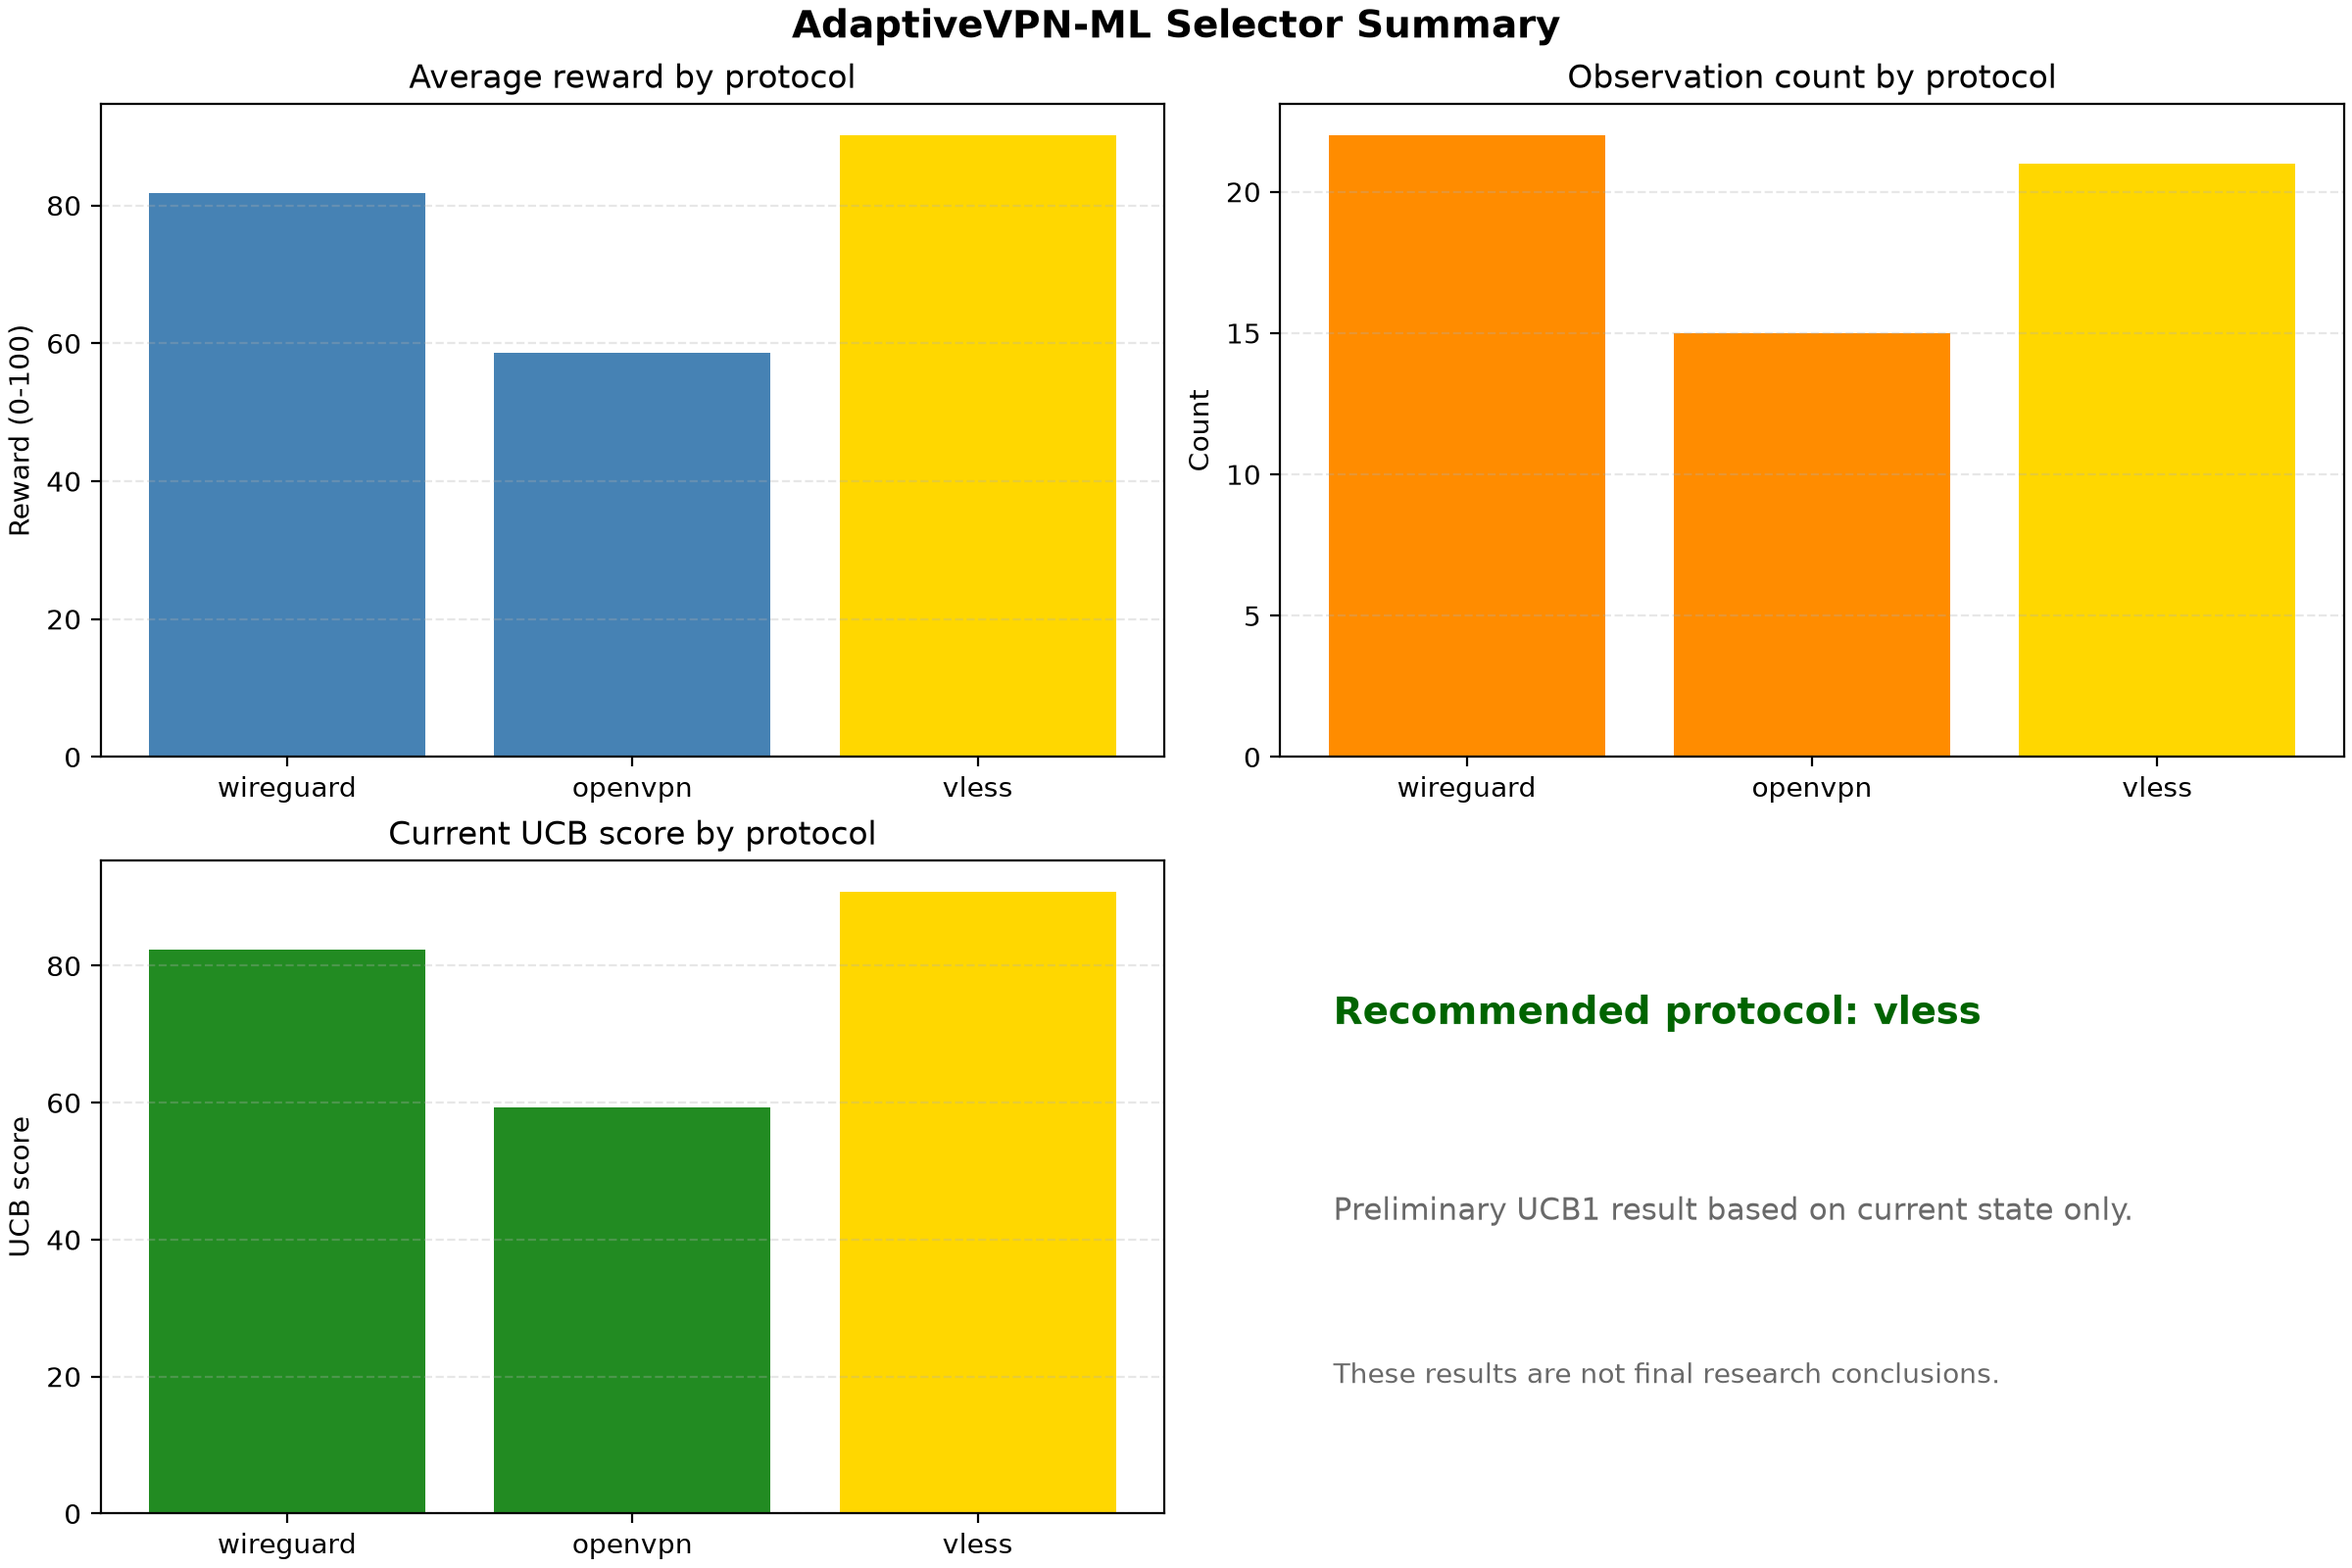
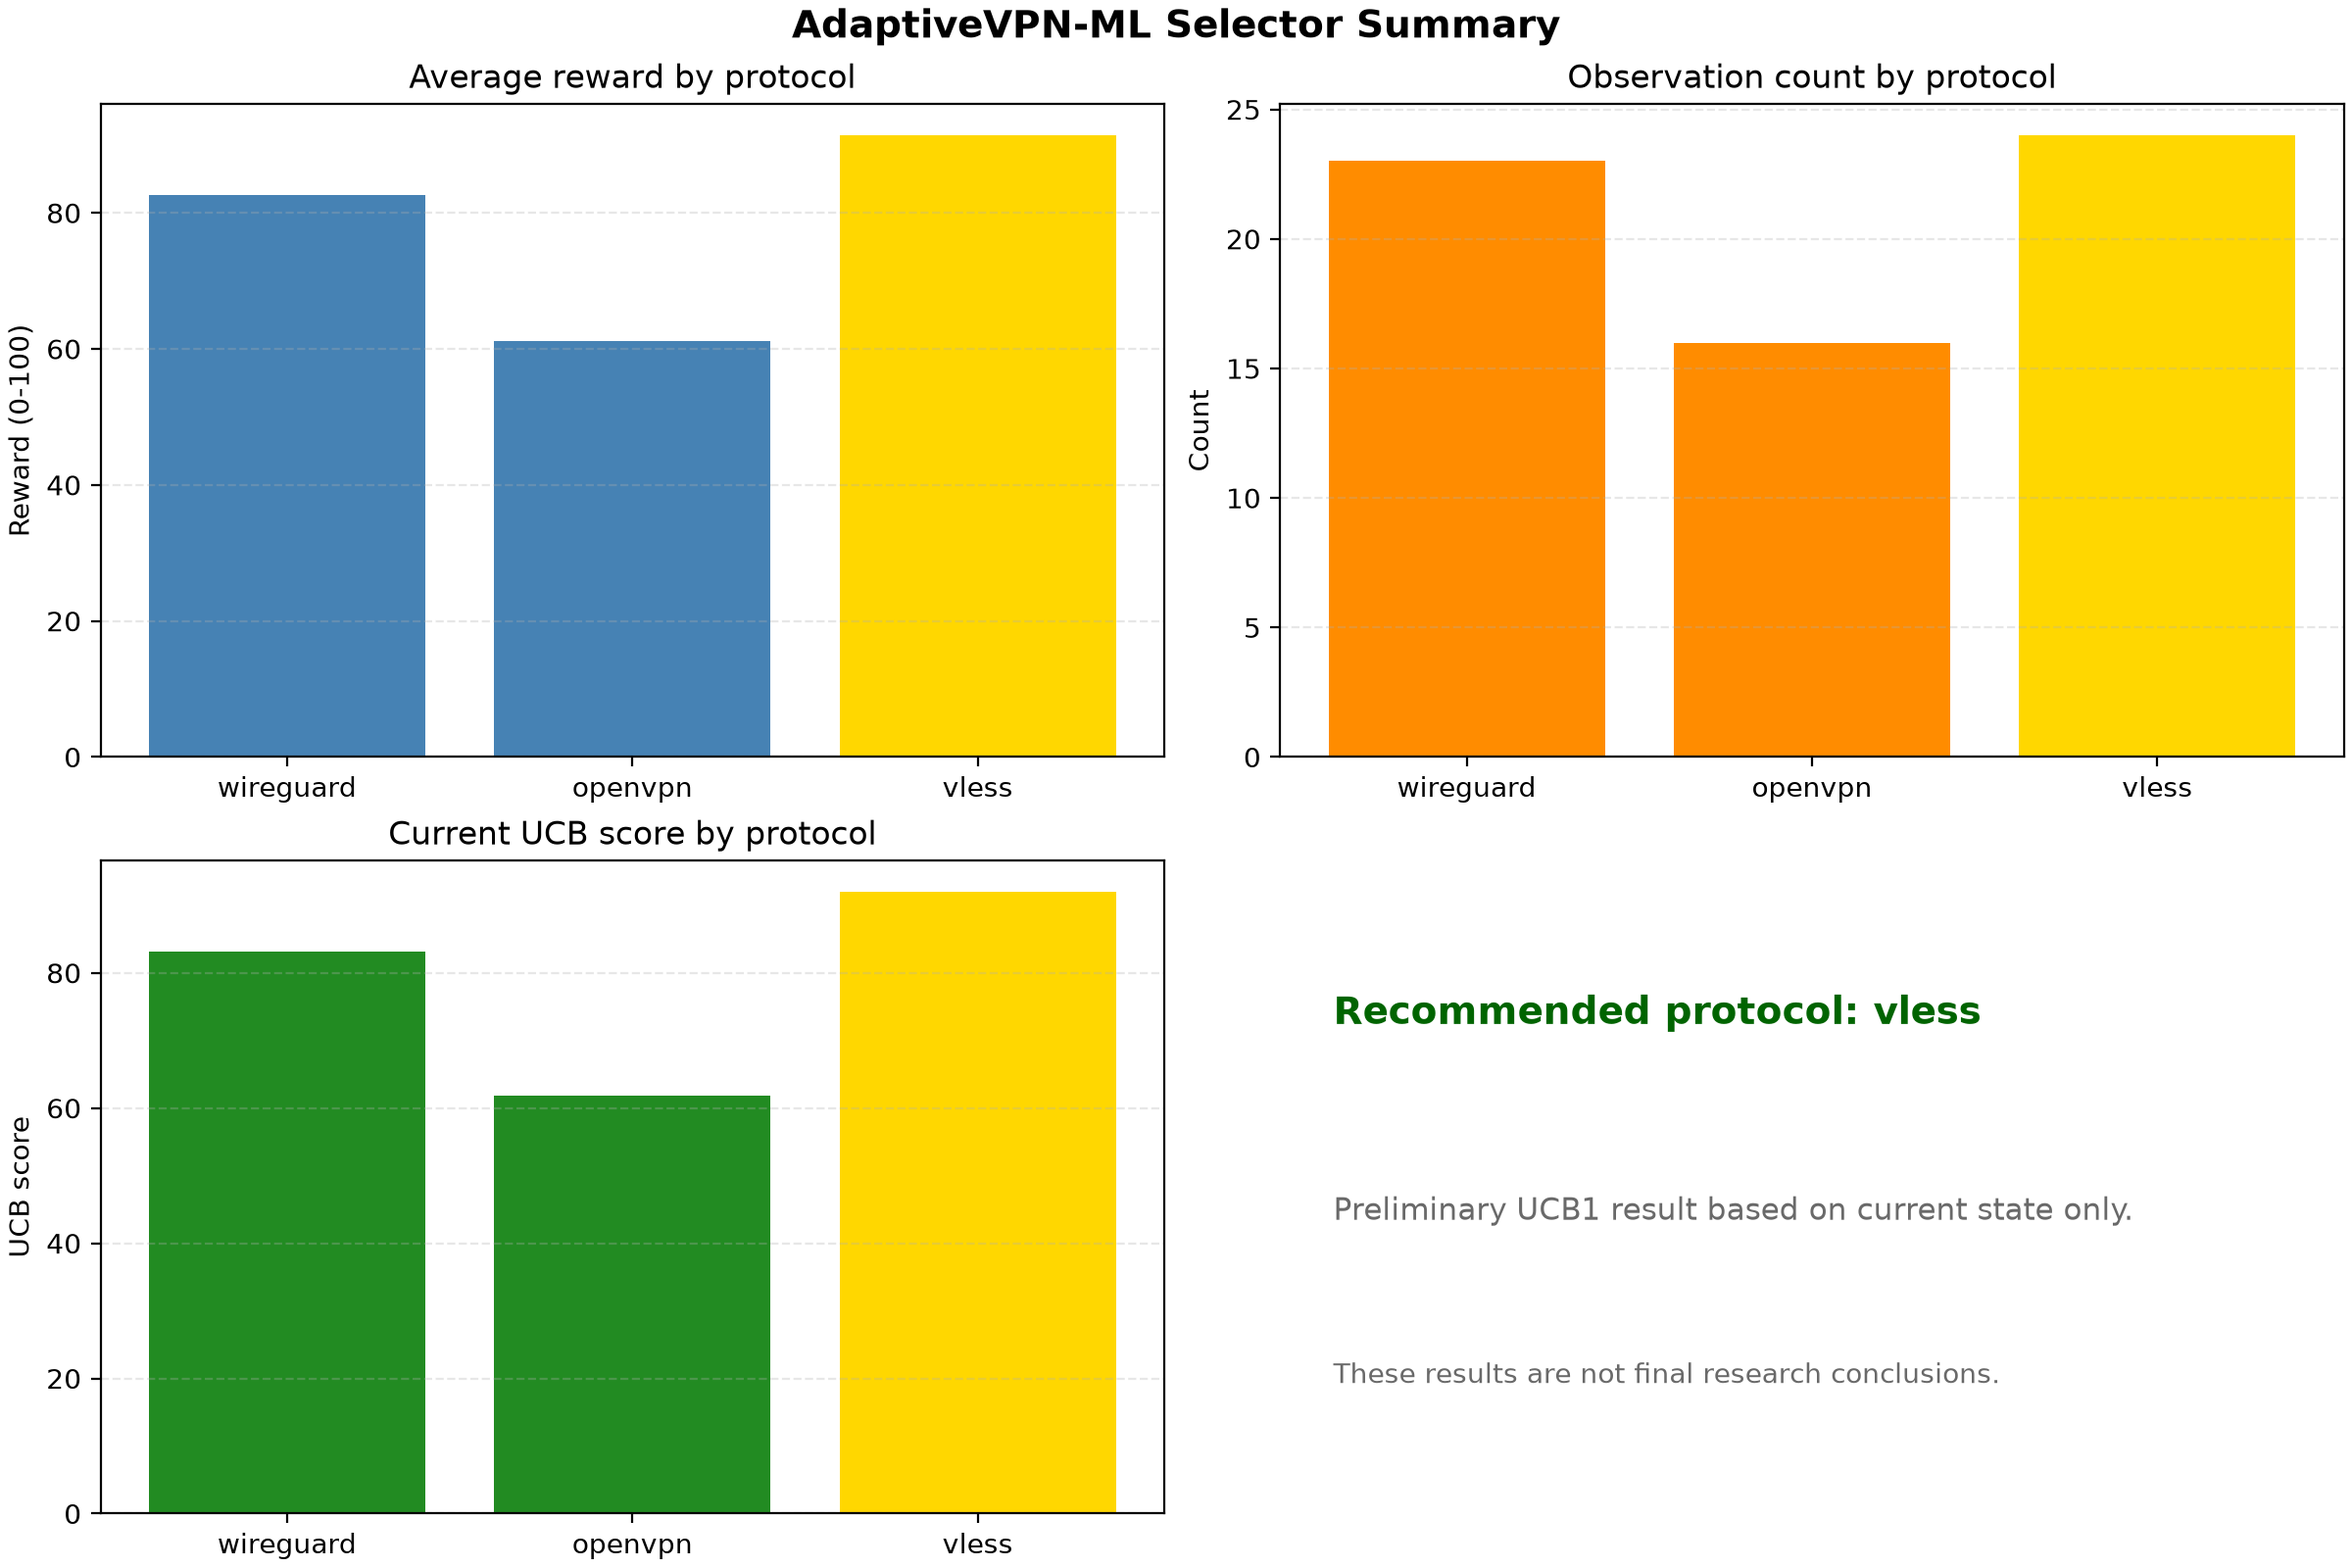
Complete adaptive VPN dashboard and protocol automation

diff --git a/vpn_controller.py b/vpn_controller.py
@@ -1,0 +1,122 @@
+import ctypes
+import socket
+import sys
+from pathlib import Path
+import subprocess
+
+
+
+VLESS_PROXY_HOST = "127.0.0.1"
+VLESS_PROXY_PORT = 10808
+
+
+def is_vless_available(timeout=1.5):
+    """Return True if the local v2rayN SOCKS/mixed proxy is reachable."""
+    try:
+        with socket.create_connection(
+            (VLESS_PROXY_HOST, VLESS_PROXY_PORT),
+            timeout=timeout,
+        ):
+            return True
+    except OSError:
+        return False
+
+
+def activate_protocol(protocol):
+    """
+    Prepare or verify the requested protocol.
+
+    For VLESS, v2rayN is currently managed externally and this controller
+    verifies that its local proxy is available before considering it active.
+    """
+    protocol = str(protocol).strip().lower()
+
+    if protocol == "vless":
+        if is_vless_available():
+            return True, "VLESS proxy is active and ready."
+        return False, (
+            "VLESS was recommended, but v2rayN proxy 127.0.0.1:10808 "
+            "is not available."
+        )
+
+    if protocol == "wireguard":
+        executable = Path(r"C:\Program Files\WireGuard\wireguard.exe")
+        config = Path.home() / "Downloads" / "laptop.conf"
+
+        if not executable.exists():
+            return False, "WireGuard was not found."
+
+        if not config.exists():
+            return False, f"WireGuard configuration was not found: {config}"
+
+        result = ctypes.windll.shell32.ShellExecuteW(
+            None,
+            "runas",
+            str(executable),
+            f'/installtunnelservice "{config}"',
+            None,
+            1,
+        )
+
+        if result <= 32:
+            return False, f"WireGuard activation failed with code {result}."
+
+        return True, (
+            "WireGuard activation requested. Approve the Windows "
+            "administrator prompt to start the laptop tunnel."
+        )
+
+    if protocol == "openvpn":
+        executable = Path(
+            r"C:\Program Files\OpenVPN Connect\OpenVPNConnect.exe"
+        )
+        profile = Path(
+            r"C:\Users\user\Downloads\client1-tcp.ovpn"
+        )
+        profile_name = "AdaptiveVPN-ML"
+
+        if not executable.exists():
+            return False, "OpenVPN Connect was not found."
+
+        if not profile.exists():
+            return False, f"OpenVPN profile was not found: {profile}"
+
+        profiles = subprocess.run(
+            [str(executable), "--list-profiles"],
+            capture_output=True,
+            text=True,
+        )
+
+        if profile_name.lower() not in profiles.stdout.lower():
+            imported = subprocess.run(
+                [
+                    str(executable),
+                    f"--import-profile={profile}",
+                    f"--name={profile_name}",
+                ],
+                capture_output=True,
+                text=True,
+            )
+
+            if imported.returncode != 0:
+                message = imported.stderr or imported.stdout
+                return False, f"Profile import failed: {message.strip()}"
+
+        subprocess.Popen([str(executable)])
+        return True, (
+            "OpenVPN Connect opened with the AdaptiveVPN-ML profile. "
+            "Press Connect inside OpenVPN Connect to confirm."
+        )
+
+def main():
+    if len(sys.argv) != 2:
+        print("Usage: python vpn_controller.py <protocol>")
+        return 1
+
+    success, message = activate_protocol(sys.argv[1])
+    print(message)
+    return 0 if success else 1
+
+
+if __name__ == "__main__":
+    raise SystemExit(main())

diff --git a/app.py b/app.py
@@ -1,0 +1,104 @@
+from pathlib import Path
+import subprocess
+
+import pandas as pd
+import streamlit as st
+
+import adaptive_selector
+import monitor
+import vpn_controller
+
+
+DATA_FILE = Path("network_data.csv")
+
+st.set_page_config(
+    page_title="AdaptiveVPN-ML",
+    page_icon="🛡",
+    layout="wide",
+)
+
+st.title("🛡 AdaptiveVPN-ML")
+st.caption("AI-assisted VPN monitoring and adaptive protocol selection")
+
+try:
+    detected_protocol, detection_message = monitor.detect_protocol_state()
+except Exception as error:
+    detected_protocol = "Unknown"
+    detection_message = str(error)
+
+status_col, protocol_col, records_col = st.columns(3)
+
+status_col.metric("System Status", "Online")
+protocol_col.metric("Detected Protocol", str(detected_protocol).upper())
+
+if DATA_FILE.exists():
+    data = pd.read_csv(DATA_FILE)
+    records_col.metric("Measurements", len(data))
+else:
+    data = pd.DataFrame()
+    records_col.metric("Measurements", 0)
+
+st.info(detection_message)
+
+st.subheader("🤖 ML Protocol Recommendation")
+
+if st.button("Generate Recommendation", type="primary"):
+    try:
+        protocol, scores, explanation = adaptive_selector.recommend_protocol(
+    "network_data.csv",
+    "model/adaptive_selector_state.json",
+
+        )
+        st.session_state["recommended_protocol"] = protocol
+        st.success(f"Recommended protocol: {str(protocol).upper()}")
+        st.write(explanation)
+
+        if scores:
+            st.json(scores)
+    except Exception as error:
+        st.error(f"Recommendation failed: {error}")
+
+recommended = st.session_state.get("recommended_protocol")
+
+if recommended:
+    if st.button(f"Activate {str(recommended).upper()}"):
+        try:
+            success, message = vpn_controller.activate_protocol(recommended)
+
+            if success:
+                st.success(message)
+            else:
+                st.warning(message)
+        except Exception as error:
+            st.error(f"Controller failed: {error}")
+
+st.subheader("📊 Network Measurements")
+
+if data.empty:
+    st.warning("No network measurements are available yet.")
+else:
+    st.dataframe(data.tail(20), use_container_width=True)
+
+    numeric_columns = data.select_dtypes(include="number").columns.tolist()
+
+    if numeric_columns:
+        selected_metric = st.selectbox("Chart metric", numeric_columns)
+        st.line_chart(data[selected_metric])
+
+st.subheader("📄 ML Report")
+
+if st.button("Generate Final Report"):
+    result = subprocess.run(
+        ["python", "generate_ml_report.py"],
+        capture_output=True,
+        text=True,
+    )
+
+    if result.returncode == 0:
+        st.success("ML report generated successfully.")
+        st.code(result.stdout or "Report files updated.")
+    else:
+        st.error(result.stderr or result.stdout)
+
+if st.button("Refresh Dashboard"):
+    st.rerun()

diff --git a/monitor.py b/monitor.py
@@ -12,6 +12,10 @@ import time
 from datetime import datetime
 
 import adaptive_selector
+try:
+    import vpn_controller
+except ModuleNotFoundError:
+    vpn_controller = None
 
 CSV_COLUMNS = [
     "timestamp",
@@ -588,7 +592,20 @@ def update_selector_from_row(row, csv_path=None, state_path=None):
         print("Selector updated")
         print(f"Recommended protocol: {recommended_protocol}")
         print(recommendation_text)
+
+        if vpn_controller is None:
+            print("Controller warning: vpn_controller is unavailable")
+        else:
+            success, controller_message = vpn_controller.activate_protocol(
+                normalize_protocol_name(recommended_protocol)
+            )
+            label = "Controller" if success else "Controller warning"
+            print(f"{label}: {controller_message}")
+
         return True, (recommended_protocol, recommendation_text)
+
+
+
 
     print("Measurement saved")
     print("Selector already contains this observation; duplicate protected.")

diff --git a/reports/ml_selector_report.md b/reports/ml_selector_report.md
@@ -1,16 +1,16 @@
 # Adaptive Selector Report
 
 - algorithm: UCB1 online learning
-- total observations: 58
-- current recommendation: vless (UCB score=90.796)
+- total observations: 63
+- current recommendation: vless (UCB score=91.990)
 
 ## Protocol breakdown
 
 | protocol | count | average reward | exploration bonus | UCB score |
 | --- | ---: | ---: | ---: | ---: |
-| wireguard | 22 | 81.778 | 0.608 | 82.386 |
-| openvpn | 15 | 58.595 | 0.736 | 59.331 |
-| vless | 21 | 90.174 | 0.622 | 90.796 |
+| wireguard | 23 | 82.570 | 0.600 | 83.171 |
+| openvpn | 16 | 61.183 | 0.720 | 61.903 |
+| vless | 24 | 91.402 | 0.588 | 91.990 |
 
 ## Reward design
 

diff --git a/README.md b/README.md
@@ -104,3 +104,12 @@ These results are preliminary because the measurements were not collected in ful
 ## Repository hygiene
 
 Sensitive files are excluded from Git by default, including VPN keys, certificates, environment files, local dataset copies, and Python bytecode.
+
+## AdaptiveVPN Dashboard
+
+Install: python -m pip install -r requirements.txt
+
+Run: python -m streamlit run app.py
+
+The dashboard detects VPN protocols, displays measurements, generates ML recommendations, activates configured VPN clients, and creates ML reports.
+
